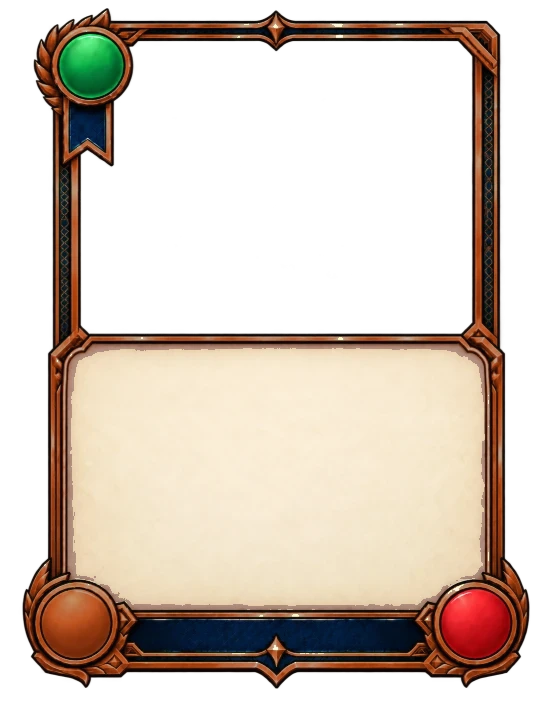
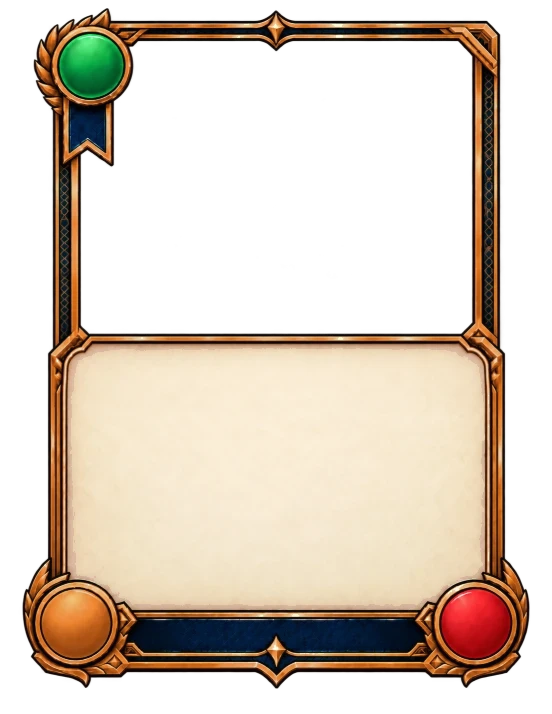
Card ranks: cost sets the starting rank; a brighter bronze
Not everything starts at Bronze any more: a card's printed cost sets where it starts (1 and 2 Bronze, 3 and 4 Silver, 5 and up Gold) and Legacy raises it from there, so the deck rows show a mix on a fresh profile and the cheap cards have the most to gain. The bronze frames are regenerated warmer and brighter, a metal rather than a brown, and the bronze accents on the card follow.

Claude-Session: https://claude.ai/code/session_01CdCWBBELLp3cWMWqqhgQtC

Changed region(s): [[0.0308, 0.0, 0.9547, 0.9552]]

diff --git a/src/ui/theme.css b/src/ui/theme.css
@@ -1493,7 +1493,7 @@ body.board-shake .battlefield { animation: board-shake 0.32s cubic-bezier(0.36, 
    pennant follow it. Everything else on the card is the same at every rank. */
 .card.tpl { --rank-line: #c9a53a; --rank-ink: #f6d77a; }
 .card.tpl.rank-silver { --rank-line: #9aa3b2; --rank-ink: #e6ebf2; }
-.card.tpl.rank-bronze { --rank-line: #a86a34; --rank-ink: #e8a86a; }
+.card.tpl.rank-bronze { --rank-line: #c07c3c; --rank-ink: #f2b476; }
 .card.tpl .tpl-meta { border-bottom-color: var(--rank-line); }
 .card.tpl .tpl-sep::before, .card.tpl .tpl-sep::after { border-top-color: var(--rank-line); }
 .card.tpl .tpl-blurb { border-top-color: var(--rank-line); }
@@ -1503,7 +1503,7 @@ body.board-shake .battlefield { animation: board-shake 0.32s cubic-bezier(0.36, 
 .cx-rank { display: flex; align-items: center; justify-content: center; gap: 10px; margin-top: 10px; font-family: var(--display); font-size: 11px; letter-spacing: 0.14em; text-transform: uppercase; color: #cfc3a6; }
 .cx-rank-medal { width: 14px; height: 14px; border-radius: 50%; border: 1.5px solid rgba(0, 0, 0, 0.6); box-shadow: 0 0 0 1px rgba(255, 255, 255, 0.15), 0 2px 6px rgba(0, 0, 0, 0.6); background: radial-gradient(circle at 35% 30%, #f6d77a, #c99a2a 55%, #8a6a14); }
 .cx-rank.rank-silver .cx-rank-medal { background: radial-gradient(circle at 35% 30%, #f4f7fb, #b9c1cc 55%, #6f7885); }
-.cx-rank.rank-bronze .cx-rank-medal { background: radial-gradient(circle at 35% 30%, #f0b27a, #b5713a 55%, #6e4220); }
+.cx-rank.rank-bronze .cx-rank-medal { background: radial-gradient(circle at 35% 30%, #f6c48e, #c8823f 55%, #8a5326); }
 .cx-rank-btn { font-size: 11px; padding: 4px 12px; }
 .cx-rank-btn:disabled { opacity: 0.45; cursor: not-allowed; }
 .cx-rank-max { color: var(--gold-2); }

diff --git a/src/ui/legacy.ts b/src/ui/legacy.ts
@@ -1,9 +1,10 @@
 import { useSyncExternalStore } from 'react';
+import { CARD_BY_ID } from '../engine';
 
 /**
  * The Legacy ledger: what the player has won, what they have spent, and the rank of every card they have promoted.
  * Legacy is only earned (a match won pays its Legacy); it buys card ranks, which are cosmetic: a bronze, silver or
- * gold frame on the same card, the same numbers. Local for now (localStorage); the account is meant to own it later
+ * gold frame on the same card, the same numbers. A card's cost sets where it starts; Legacy raises it from there. Local for now (localStorage); the account is meant to own it later
  * (docs/economy.md). Unity: the same shape as a save file, the ranks a dictionary keyed by card id.
  */
 export type Rank = 'bronze' | 'silver' | 'gold';
@@ -68,8 +69,15 @@ export function bank(delta: number, why: string): void {
   if (!(delta > 0)) return;
   commit({ ...ledger, banked: ledger.banked + delta, log: [...ledger.log, { at: new Date().toISOString(), delta, why }].slice(-50) });
 }
+/** Where a card starts: its printed cost sets the rank (1-2 Bronze, 3-4 Silver, 5 and up Gold); Legacy raises it. */
+export function baseRank(cardId: string): Rank {
+  const cost = (CARD_BY_ID[cardId] as { cost?: number } | undefined)?.cost ?? 1;
+  return cost >= 5 ? 'gold' : cost >= 3 ? 'silver' : 'bronze';
+}
 export function rankOf(cardId: string): Rank {
-  return ledger.ranks[cardId] ?? 'bronze';
+  const bought = ledger.ranks[cardId];
+  const base = baseRank(cardId);
+  return bought && RANKS.indexOf(bought) > RANKS.indexOf(base) ? bought : base;
 }
 export function nextRank(cardId: string): Rank | null {
   const i = RANKS.indexOf(rankOf(cardId));

diff --git a/README.md b/README.md
@@ -63,7 +63,7 @@ Developer tools (`?dev=1` or the button on the start screen): fixed seeds, AI re
 - **Informants and Charleston, 1822.** Persuade is gone. Four Informant Characters take its place: Peter Prioleau and George Wilson (the Vesey plot, 1822), Pharoah and Tom, and Ben Woolfolk (Gabriel's rising, 1800). An Informant is played onto the opponent's Gates at a Location with one of their slots open: it is theirs, its negative Influence counts against them there, it takes one of their Gate slots, and it never becomes Ready or goes Inside. They can relocate it (their Relocation), slide it with Robert Smalls, or let a Threat knock it away; Harriet will not conduct one, no opposing Reveal targets it (it is not the opponent's), and it never confronts. The holder's own answer arrived in build 140, **Found out**: David Ruggles and Lewis Hayden find the Informant at their Gates out and send it back to the planter's hand (their discard if that hand is full), William Parker has it arrested into the planter's discard and then moves on to another Location, and William Still, Established there, writes it down so it counts 0 while it keeps its slot. None is dead without an Informant: Ruggles draws, Hayden's house holds yours there against displacement this turn, Parker's league confronts a Threat with +1 Force, Still's interview digs two. Turning an informer was deliberately not built: none of the verified people did it, and both players are the People. Amnesty is different and is verified: Desmond Tutu's Reveal hears the Informant at his Gates out in full and grants amnesty, the Truth and Reconciliation Commission's own terms, and it stays where it is, Fresh, as its holder's own Character from then on (its Influence counts for them, it can go Inside); with none there, the cathedral holds like Hayden's house. Established, St George's shields the Location like Nanny's Maroons. Informants are placed after every regular Character, so they never win a slot race against the holder's own plays; one that finds the Gates full goes back to your hand. Charleston, 1822 is a Location where, at the end of every turn, the Fresh Gate Character with the lowest Influence changes sides if the other side has a Gate slot for it (a tie goes against the leader); an Informant there is found out and returns to its planter's hand, and a Character played there is at risk unless something lower is beside it. Sundown Town leaves Informants alone. Marie Laveau's Reveal is now a hex: the strongest opposing Gate Character at her Location loses 2 Influence for the rest of the match.
 - **Sundown Town and allies.** Curfew never holds Harriet Tubman herself. John Brown does not experience the town's rules: no curfew, never run out, and while he is at that Location one friendly Character who would be run out at the end of the turn (the highest Influence first) hides with him overnight instead.
 - **Gate wait timing.** A Character played on turn N is Fresh through turn N+1's planning and becomes Ready at the end of N+1, so it can enter on N+2. This is the reading that makes "becomes Ready immediately" effects (Harriet, Organizer, Juneteenth) worth a full turn. If playtesting says the wait is too long, the one-line change is in the cleanup step of `resolve.ts`.
-- **Card ranks.** Every card starts Bronze; Legacy won in matches promotes it to Silver (3) and Gold (8): the same card on a recoloured frame, nowhere else different. `docs/economy.md` has the rules, `src/ui/legacy.ts` the ledger.
+- **Card ranks.** A card's cost sets its starting rank (1-2 Bronze, 3-4 Silver, 5+ Gold); Legacy won in matches promotes it to Silver (3) and Gold (8): the same card on a recoloured frame, nowhere else different. `docs/economy.md` has the rules, `src/ui/legacy.ts` the ledger.
 - **Stand on Business** adds a 9th turn and removes Sit Down for the player who stood. The raise is part of the hidden plan and takes effect at the end of the *following* turn. Nobody is forced into a yes/no modal: the other player plans a normal turn with a banner showing the pending raise, and Sitting Down during that turn costs only the old Legacy. The multiplier rewards and punishes the early call (×4, ×3, ×2 by the turn it is declared; standing back multiplies again, max 16), so a turn-1 Stand is a real gamble and Harborlight only makes one from an overwhelming lead. A Stand on turn 8 adds turn 9 and lands with the final result. The button itself takes its cues from Marvel Snap: stomp, stomp, clap, and on the clap a gold burst, a jolt, the Legacy coin flipping to the new price and a roar that carries on.
 - **Day and night**: odd turns are day, even turns are night (`isNight`). A curfew is a condition of a Location, not a Threat: Sundown Town (`curfew: true`) lets nobody relocate out at night. The Justice System's two-turn hold is a separate rule. `lockReason(state, c)` is the one gate for both. Only curfew Locations show the time of day: a DAY or NIGHT tag on the panel, and at night `locations/<id>_night.jpg` when it exists, otherwise the day art darkened. The rest of the board looks the same day or night.
 - **Harriet Tubman** (Conductor) is the only card that ignores locks: her Reveal moves any friendly Character, Gate or Inside, straight Inside another Location when there is room, otherwise to its Gates Ready. Free and before entries.

diff --git a/docs/economy.md b/docs/economy.md
@@ -2,7 +2,7 @@
 
 ## Built: card ranks (bronze, silver, gold)
 
-The first sink is live. Every card starts at **Bronze**; Legacy promotes it to **Silver** (3) and then **Gold** (8).
+The first sink is live. A card's printed cost sets where it starts: 1 and 2 at **Bronze**, 3 and 4 at **Silver**, 5 and up at **Gold**. Legacy promotes it from there, to **Silver** (3) and then **Gold** (8), so the cheap cards are the ones with the most to gain.
 A rank is a frame and nothing else: the same card, the same numbers, on a bronze, silver or gold frame, wherever
 the card shows (the hand, the Codex, the landing row). The frames are the one gold export with only its gold pixels
 remapped (the medallions, the navy and the parchment are untouched), so no new artwork is needed per rank.
